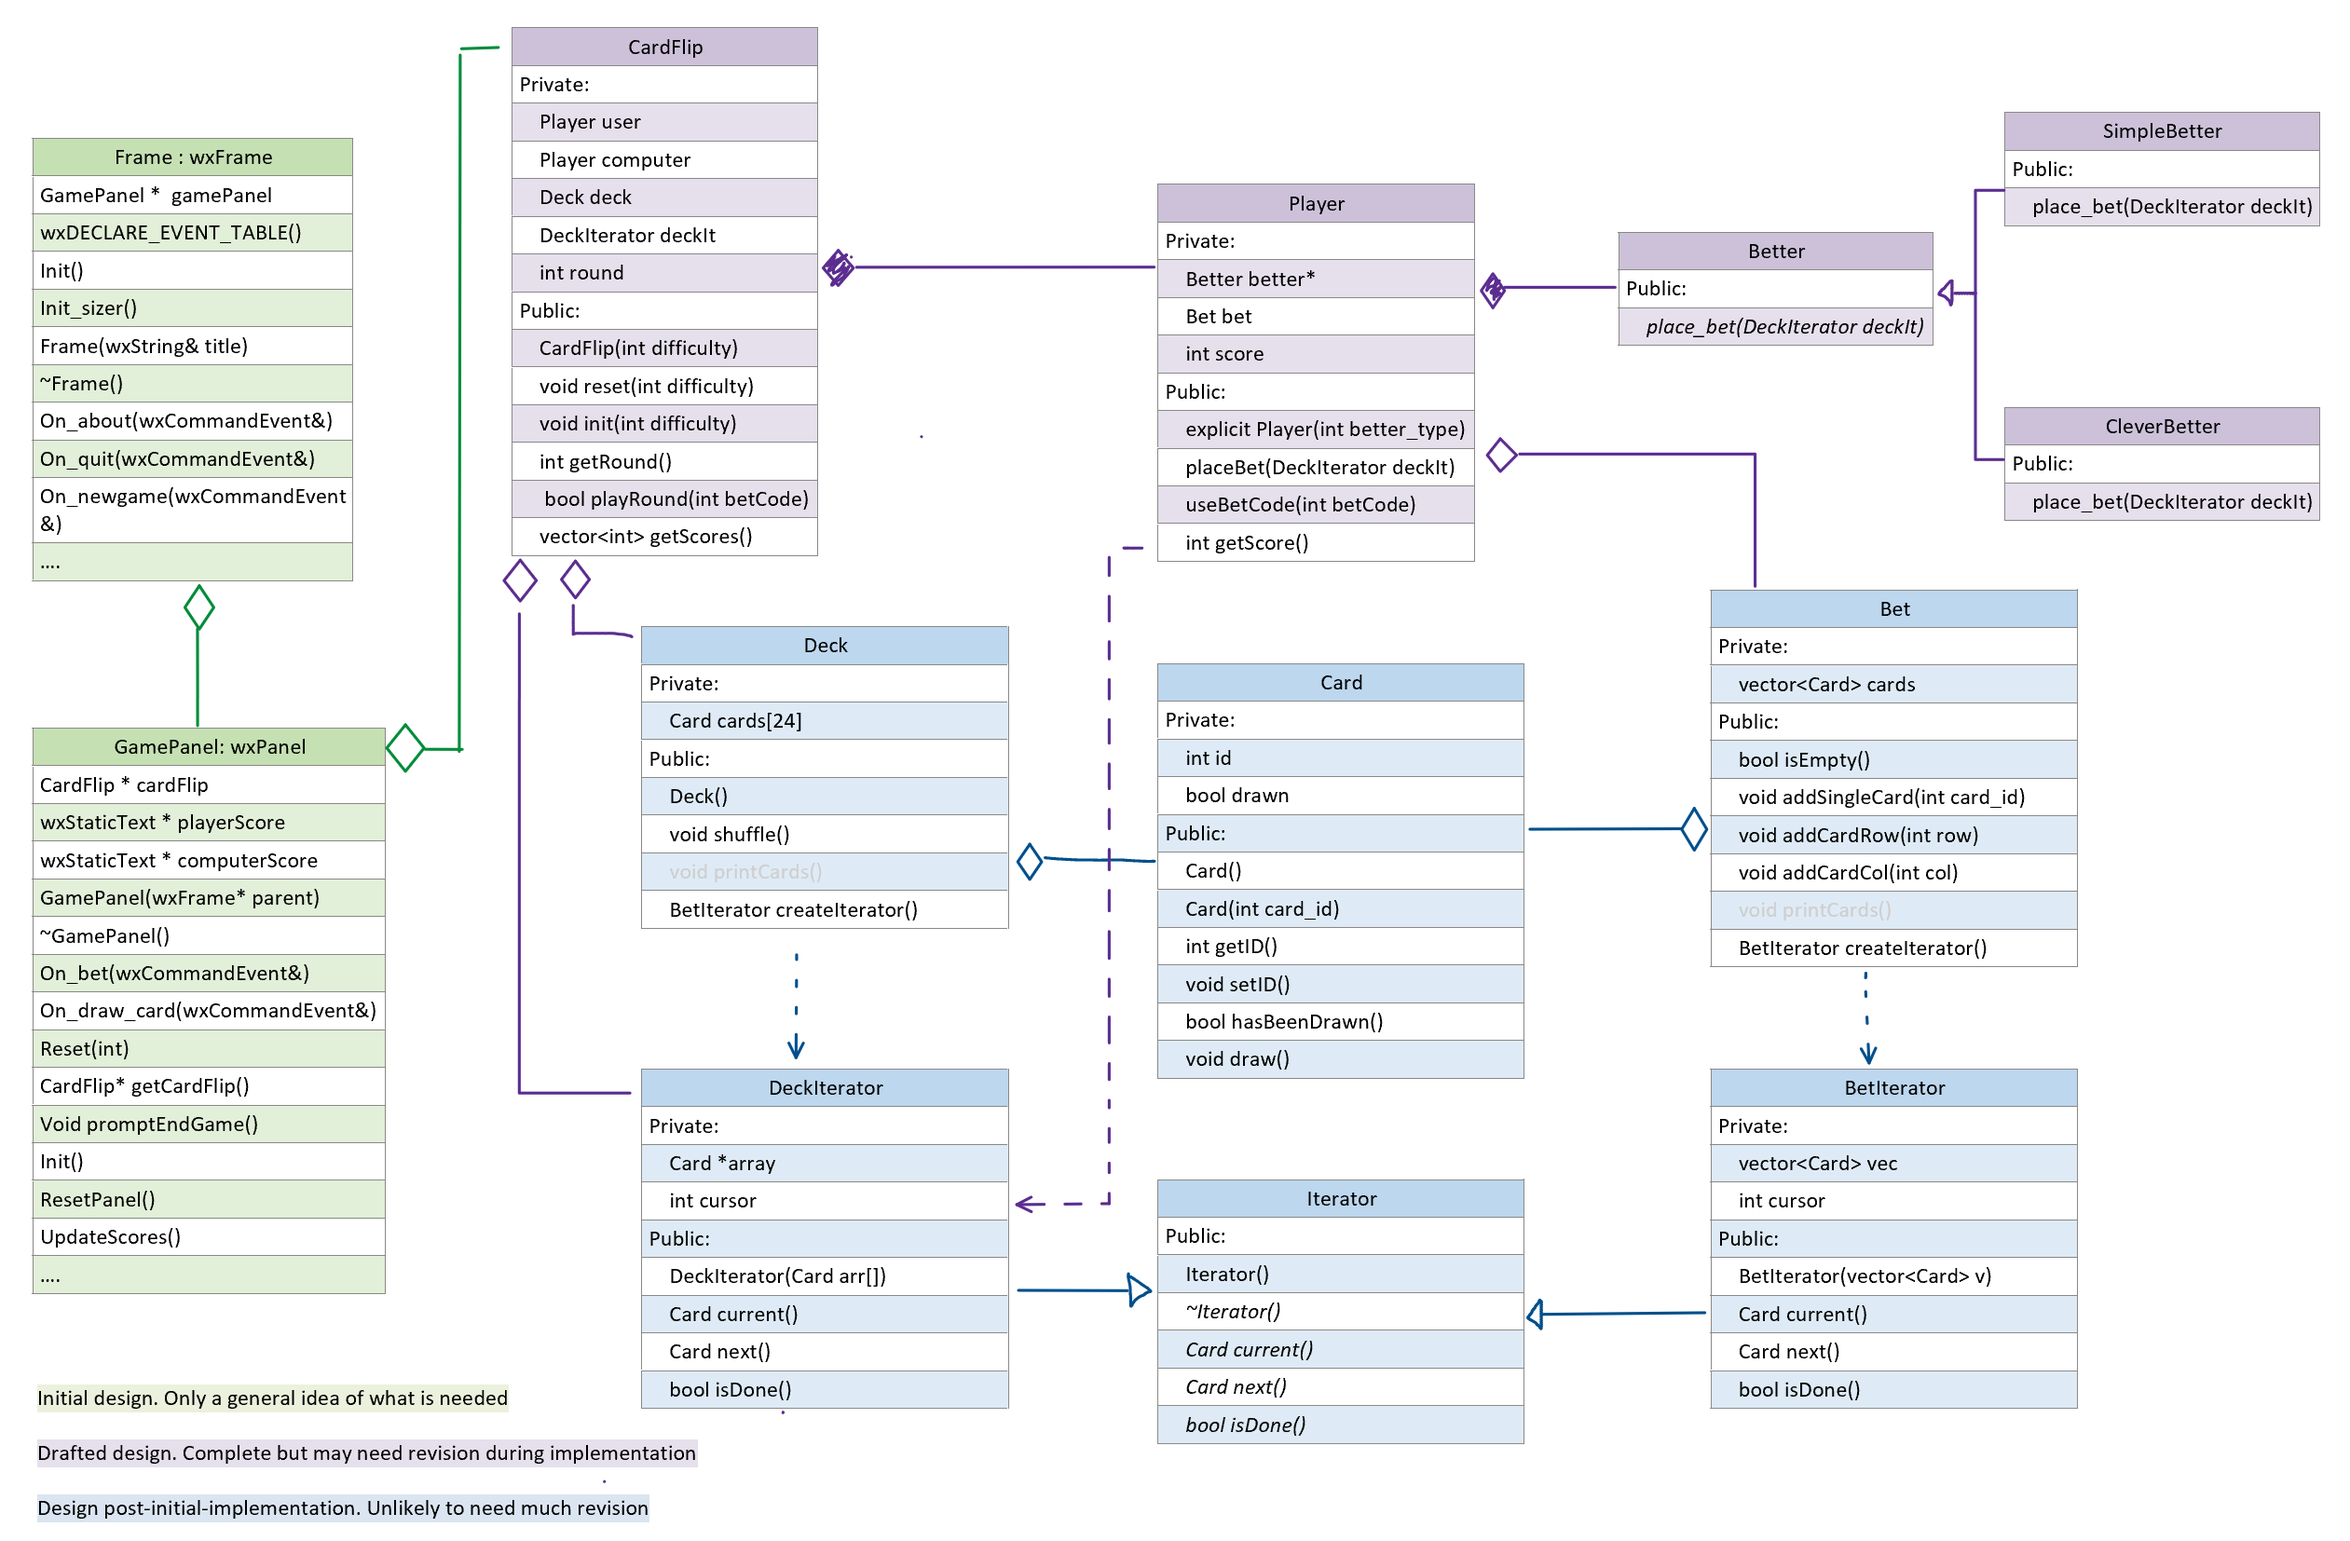
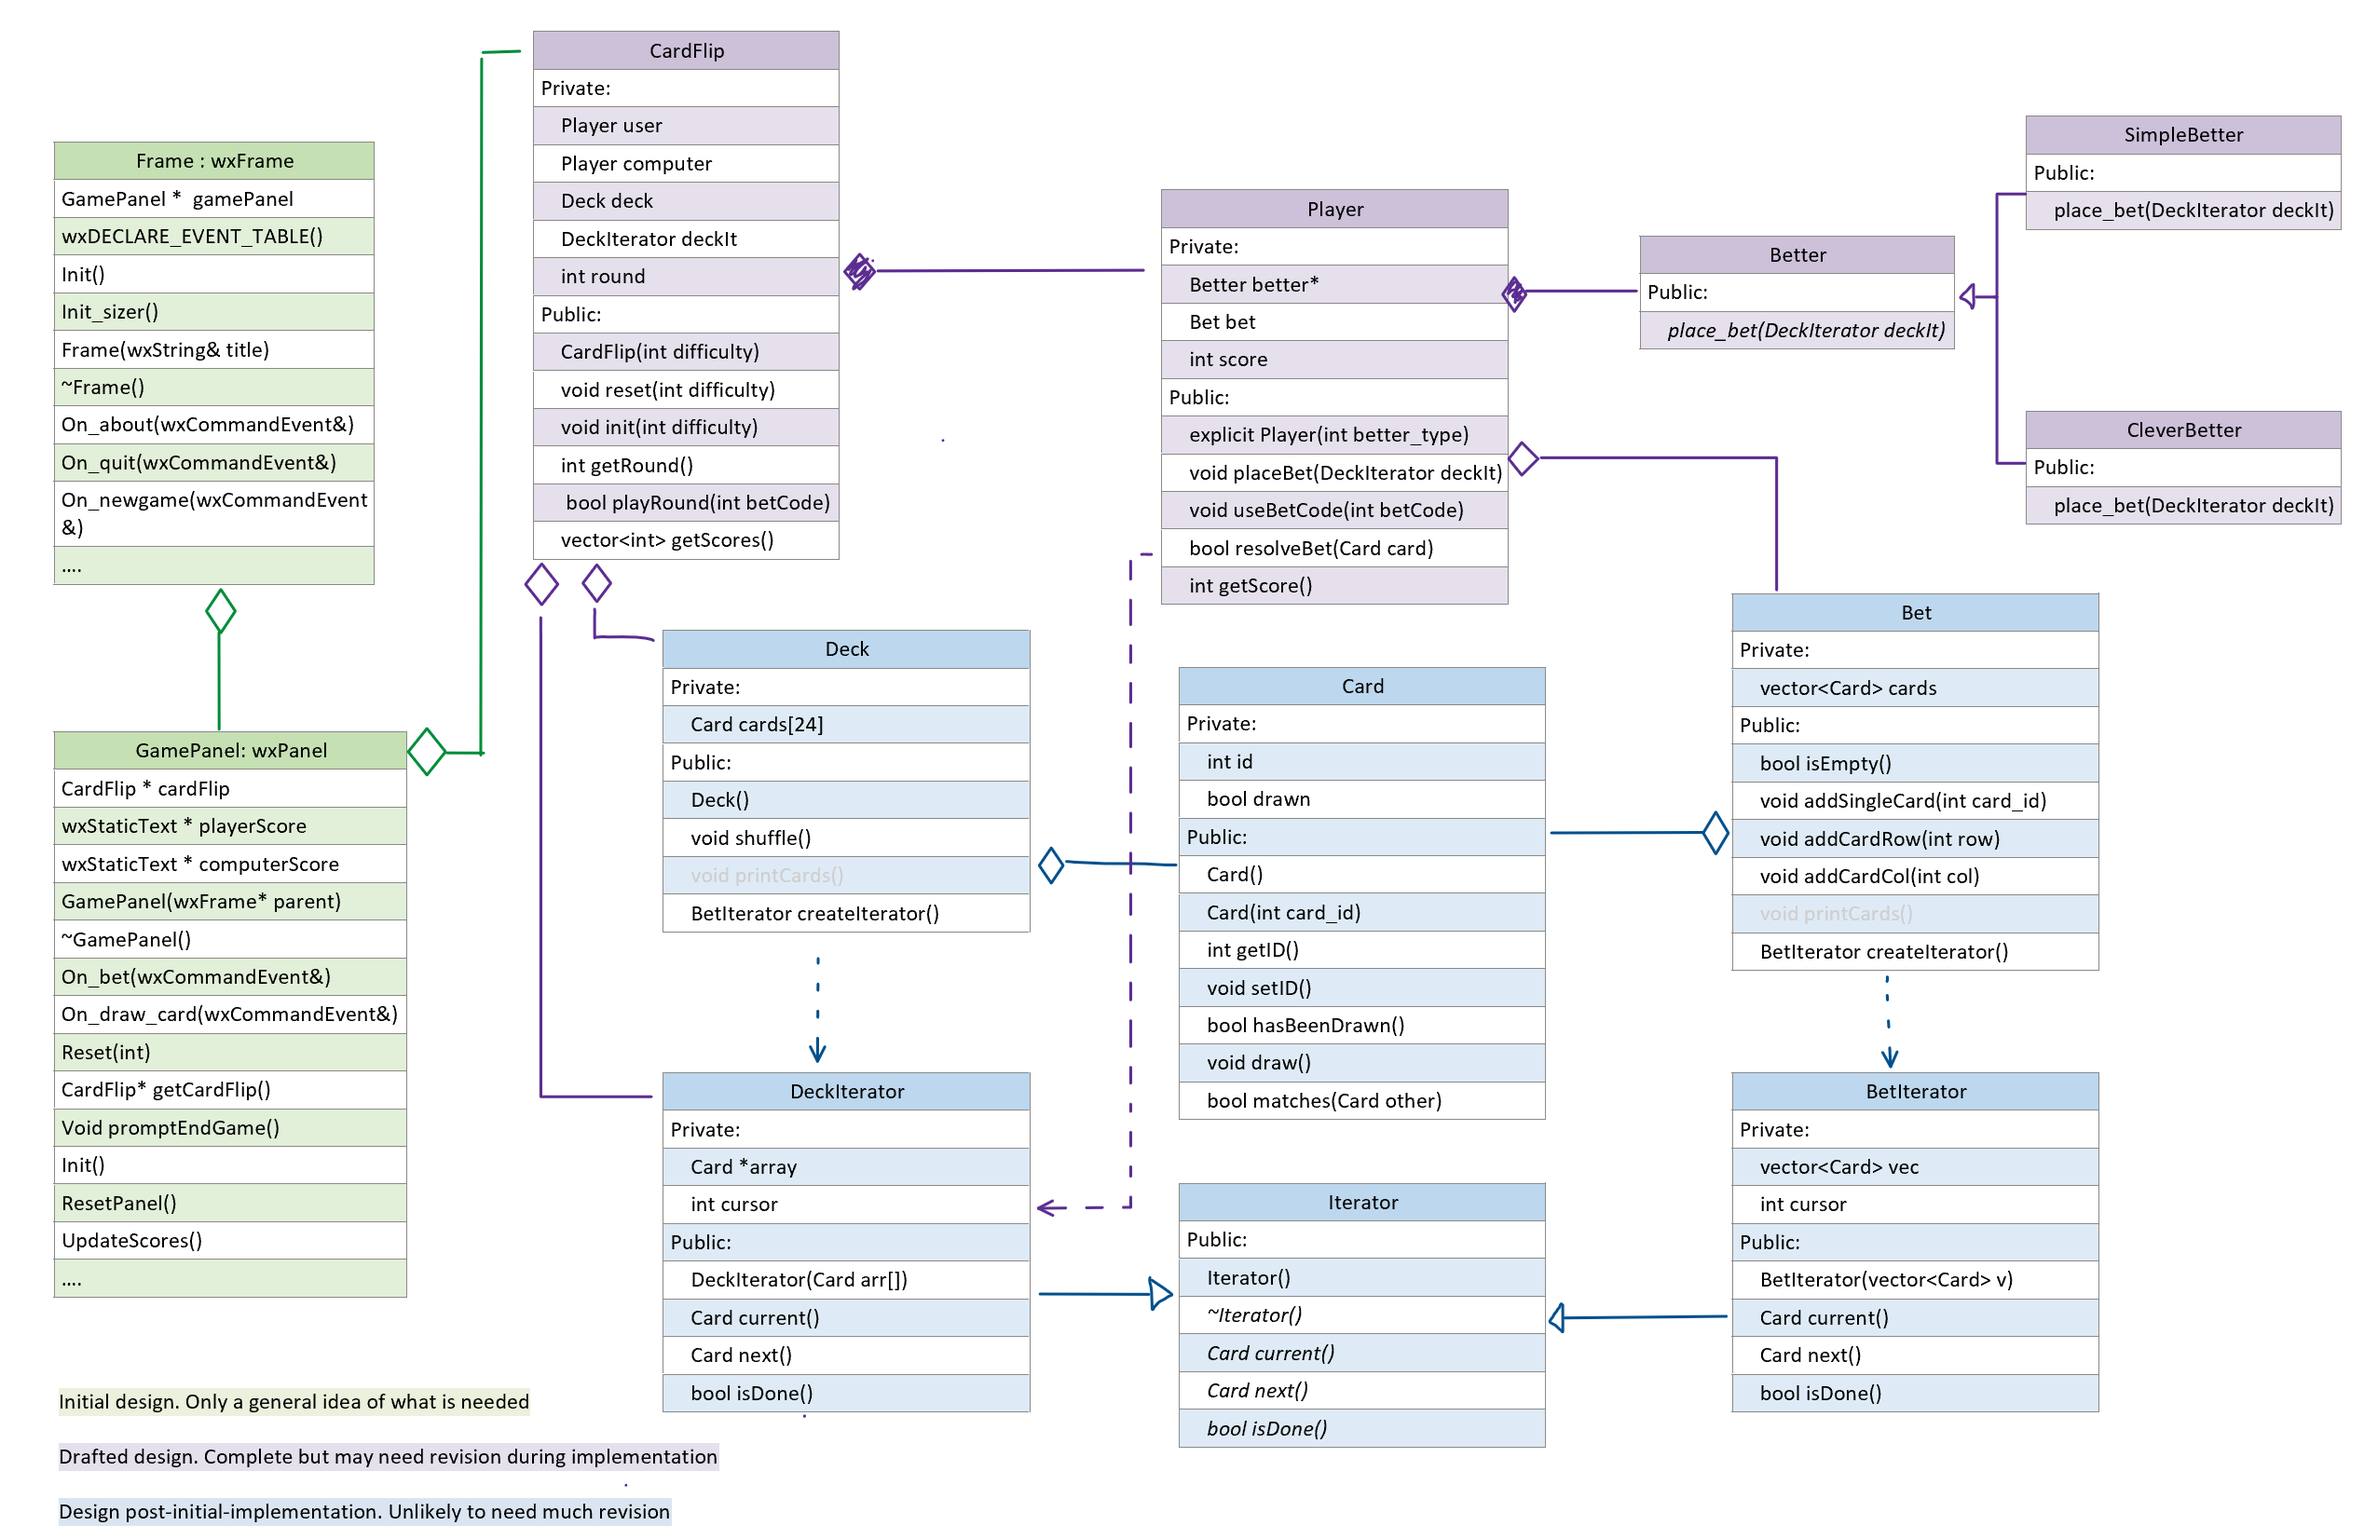
Added Card::matches(Card) method
also added Player::resolveBet(Card) method to the class diagram

Changed region(s): [[0.0, 0.0, 0.8969, 1.0], [0.8351, 0.247, 0.9897, 0.3396], [0.8351, 0.0617, 0.9897, 0.1544]]

diff --git a/PlainFlip/include/Card.h b/PlainFlip/include/Card.h
@@ -19,6 +19,8 @@ public:
     bool hasBeenDrawn()     { return drawn; };
     void draw()             { drawn = true; };
 
+    bool matches(Card other){ return (id==other.getID()); };
+
 private:
     int id; //expected val 1 - 24
     bool drawn;
